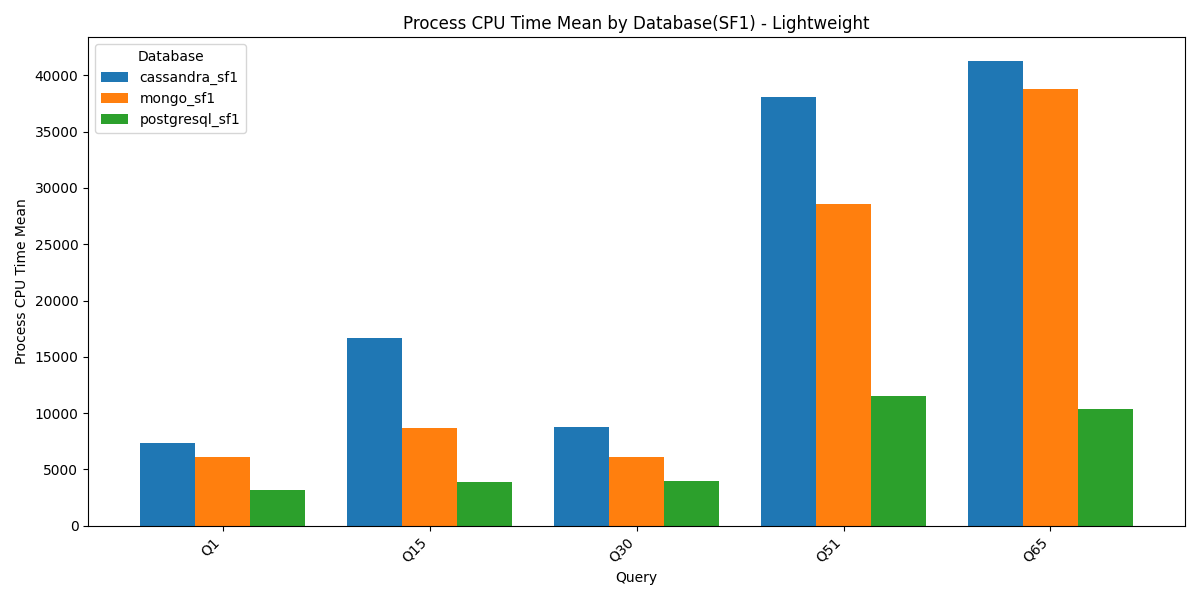
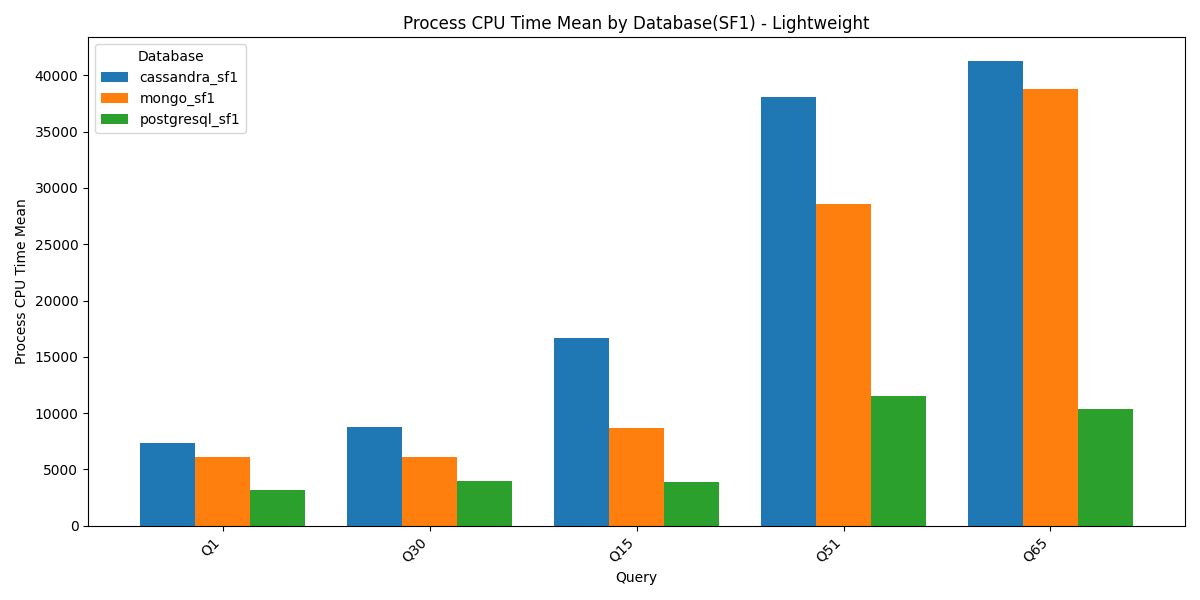
added plots

diff --git a/docker-presto-integration/results/plot_script.py b/docker-presto-integration/results/plot_script.py
@@ -24,9 +24,11 @@ def plot_benchmark_results_by_group(parsed_results, metric_column, ylabel, title
         group_df = combined_df[combined_df["query"].isin(queries)]
 
         # Pivot the data for grouped bar plotting
-        pivot_df = group_df.pivot(
-            index="query", columns="database", values=metric_column
-        )
+        pivot_df = group_df.pivot(index="query", columns="database", values=metric_column)
+
+        # Sort the queries based on the sum of values across databases
+        pivot_df["sum"] = pivot_df.sum(axis=1)
+        pivot_df = pivot_df.sort_values(by="sum").drop(columns=["sum"])
 
         # Plot the grouped bar chart
         pivot_df.plot(kind="bar", figsize=(12, 6), width=0.8)
@@ -38,7 +40,6 @@ def plot_benchmark_results_by_group(parsed_results, metric_column, ylabel, title
         plt.tight_layout()
         plt.savefig(f"{title} - {group_name}.png")
         plt.show()
-
 
 def parse_benchmark_results(file_paths, columns_to_extract):
     """
@@ -79,12 +80,25 @@ if __name__ == "__main__":
         "mongo_sf10": root_path + r"\tpcds_mongodb_sf10.txt",
         "cassandra_sf10": root_path + r"\tpcds_cassandra_sf10.txt",
     }
+    file_paths_sf1_combined = {
+        "combined_sf1": root_path + r"\tpcds_combined_sf1.txt",
+        "combined_sf1_w1": root_path + r"\tpcds_combined_sf1_w1.txt",
+        "combined_sf1_w2": root_path + r"\tpcds_combined_sf1_w2.txt",
+    }
+    file_paths_sf10_combined = {
+        "combined_sf10": root_path + r"\tpcds_combined_sf10.txt",
+        "combined_sf10_w1": root_path + r"\tpcds_combined_sf10_w1.txt",
+        "combined_sf10_w2": root_path + r"\tpcds_combined_sf10_w2.txt",
+    }
 
     columns_to_extract = ["query", "processCpuTimeMean", "queryCpuTimeMean"]
 
     # Parse the files
     parsed_results_sf1 = parse_benchmark_results(file_paths_sf1, columns_to_extract)
     parsed_results_sf10 = parse_benchmark_results(file_paths_sf10, columns_to_extract)
+    parsed_results_sf1_combined = parse_benchmark_results(file_paths_sf1_combined, columns_to_extract)
+    #parsed_results_sf10_combined = parse_benchmark_results(file_paths_sf10_combined, columns_to_extract)
+
 
     query_groups = {
         "Lightweight": ["Q65", "Q51", "Q15", "Q30", "Q1"],
@@ -128,5 +142,23 @@ if __name__ == "__main__":
         metric_column="processCpuTimeMean",
         ylabel="Process CPU Time Mean",
         title="Process CPU Time Mean by Database (SF10)",
+        query_groups=query_groups,
+    )
+    # For combined SF1
+    # Plot results for Query CPU Time Mean grouped by query type
+    plot_benchmark_results_by_group(
+        parsed_results_sf1_combined,
+        metric_column="queryCpuTimeMean",
+        ylabel="Query CPU Time Mean",
+        title="Query CPU Time Mean by Database (Combined SF1)",
+        query_groups=query_groups,
+    )
+
+    # Plot results for Process CPU Time Mean grouped by query type
+    plot_benchmark_results_by_group(
+        parsed_results_sf1_combined,
+        metric_column="processCpuTimeMean",
+        ylabel="Process CPU Time Mean",
+        title="Process CPU Time Mean by Database (Combined SF1)",
         query_groups=query_groups,
     )
